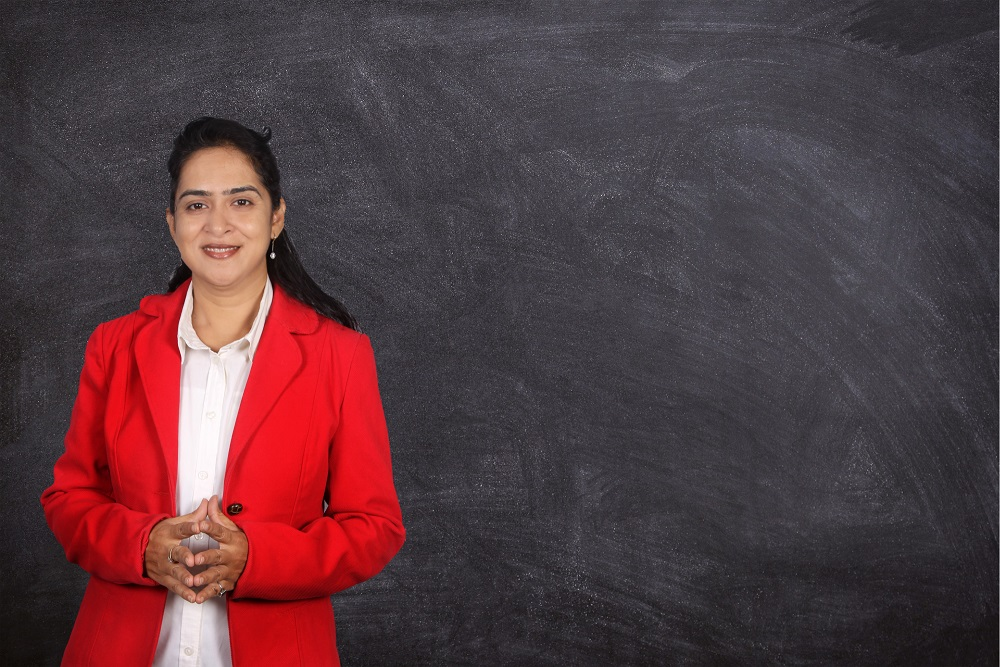
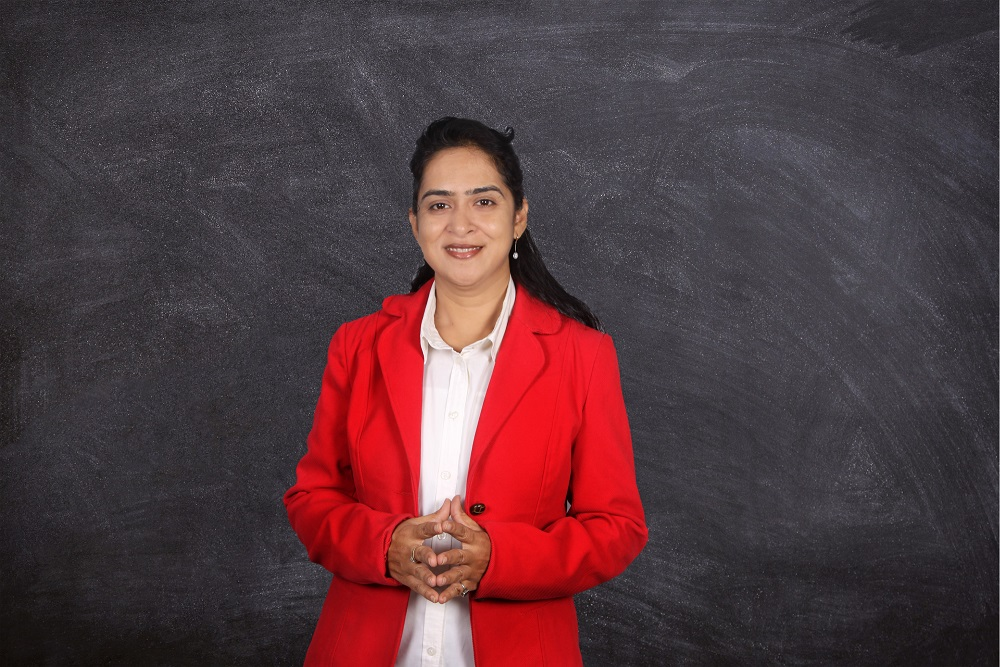
add dynamic hero image as per device

diff --git a/webinar/css/main.css b/webinar/css/main.css
@@ -41,11 +41,31 @@ body {
   overflow-x: hidden;
   color: #8f8f8f;
 }
-
+/* Google sheet submission*/
 .is-hidden {
       display: none !important;
     }
+/* Google sheet submission ends*/
 
+/* Dynamic Image*/
+.image_full{
+   display:block;
+  }
+
+ .image_mobile{
+  display:none;
+ }
+
+@media (max-width: 640px) and (min-width: 320px){
+  .image_full{
+   display:none;
+  }
+
+  .image_mobile{
+   display:block;
+  }
+}
+/* Dynamic Image ends*/
 
 p {
   font-weight: 300;
@@ -95,13 +115,25 @@ strong { font-weight: 500; }
 /* ==========================================================================
    2.hero section
    ========================================================================== */
+ 
   
+ 
+
+
 .hero-section {
   padding: 1.5em 0 6.75em;
   background: url(../img/bg.jpg) center center no-repeat;
   background-size: cover;
   position: relative;
 }
+
+@media (max-width: 640px) and (min-width: 320px){
+.hero-section{
+background: url(../img/bg1.jpg) center center no-repeat;
+} 
+
+} 
+
 
 .hero-section::before {
   content: '';

diff --git a/index.html b/index.html
@@ -1,4 +1,3 @@
-
 <!DOCTYPE html>
 
 <html class="no-js" lang="en-US" prefix="og: http://ogp.me/ns#">
